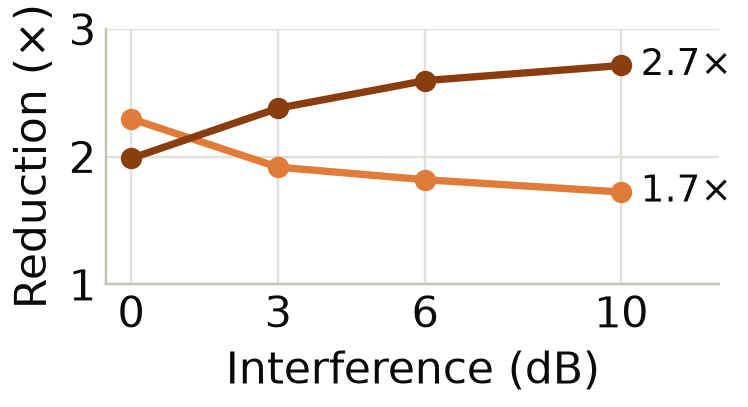
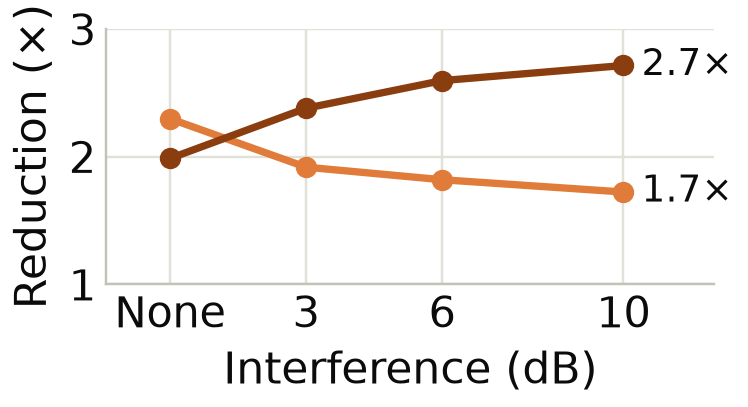
Interference panels of the motivation: the first point is labeled None (no users of neighbor cells), not 0 dB

diff --git a/figures/paper/make_paper_figures.py b/figures/paper/make_paper_figures.py
@@ -435,8 +435,9 @@ def motivation_server():
             y = [merged([n])["resends_per_100"] / merged([n], "ours")["resends_per_100"] for n in names]
             ax.plot(inr, y, color=NRX[label], linewidth=2.4, marker="o", markersize=6)
             ax.text(inr[-1] + 0.4, y[-1], f"{y[-1]:.1f}\u00d7", va="center", fontsize=VALUE, color=INK)
-        ax.set_xlim(-0.5, 12)
+        ax.set_xlim(-1.4, 12)
         ax.set_xticks(inr)
+        ax.set_xticklabels(["None"] + [str(x) for x in inr[1:]])   # the first point has no users of neighbor cells
         ax.set_ylim(1, 3)
         ax.set_yticks([1, 2, 3])
         ax.set_xlabel("Interference (dB)")
